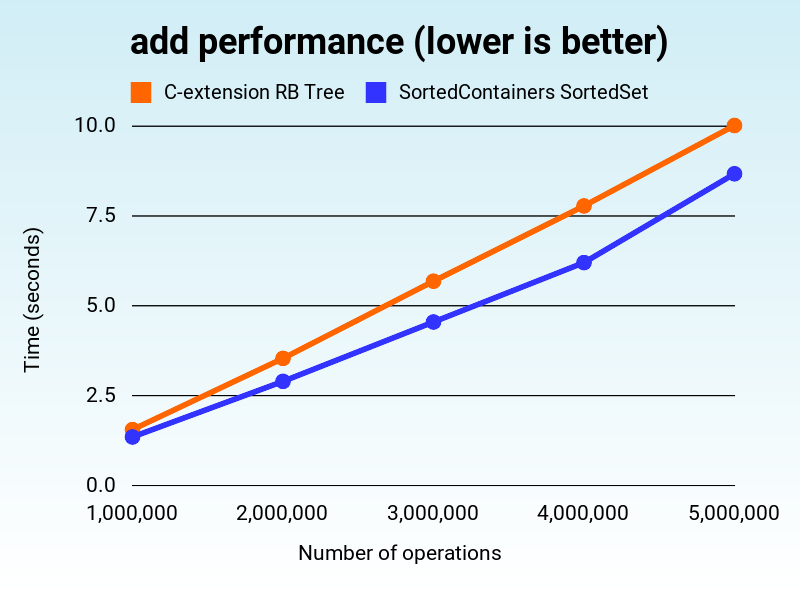
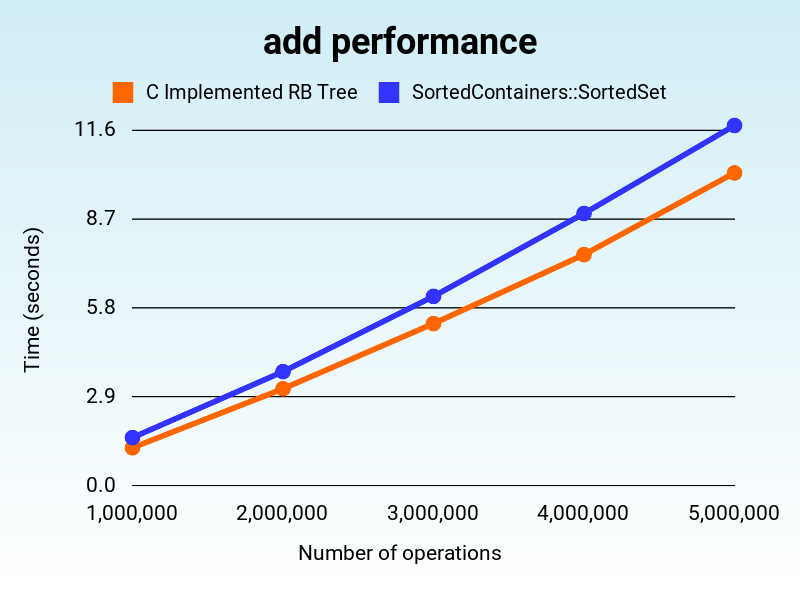
Update benchmarks and README

diff --git a/benchmark/benchmark.rb b/benchmark/benchmark.rb
@@ -6,47 +6,63 @@ require_relative "../lib/sorted_containers/sorted_set"
 require "csv"
 
 sizes = [1_000_000, 2_000_000, 3_000_000, 4_000_000, 5_000_000]
+#sizes = [100_000, 200_000, 300_000, 400_000, 500_000]
+#sizes = [10_000, 20_000, 30_000, 40_000, 50_000]
 results = []
+runs = 5
 
 Benchmark.bm(15) do |bm|
   sizes.each do |n|
-    list = Array.new(n) { rand(0..n) }
+    # The items to be added to the set
+    list_adds = (1..n).to_a.shuffle
     results_for_n = { size: n }
 
     # Benchmarking original SortedSet
     bm.report("SortedSet #{n}:") do
-      sorted_set = SortedSet.new
-      results_for_n[:add_sorted_set] = Benchmark.measure { list.each { |i| sorted_set.add(i) } }.real
-      results_for_n[:include_sorted_set] = Benchmark.measure { list.each { |i| sorted_set.include?(i) } }.real
-      # rubocop:disable Lint/EmptyBlock
-      results_for_n[:loop_sorted_set] = Benchmark.measure { sorted_set.each { |i| } }.real
-      # rubocop:enable Lint/EmptyBlock
-      results_for_n[:delete_sorted_set] = Benchmark.measure { list.shuffle.each { |i| sorted_set.delete(i) } }.real
+      total_time = {add: 0, include: 0, loop: 0, delete: 0}
+      runs.times do
+        sorted_set = SortedSet.new
+        total_time[:add] += Benchmark.measure { list_adds.each { |i| sorted_set.add(i) } }.real
+        total_time[:include] += Benchmark.measure { (1..n).map { rand((-0.5*n).to_i..(n*1.5).to_i) }.each { |i| sorted_set.include?(i) } }.real
+        total_time[:loop] += Benchmark.measure { sorted_set.each { |i| } }.real
+        total_time[:delete] += Benchmark.measure do 
+          list_adds.shuffle.each do |i| 
+            sorted_set.delete(i) 
+          end
+        end.real
+      end
+      results_for_n[:add_sorted_set] = total_time[:add] / runs
+      results_for_n[:include_sorted_set] = total_time[:include] / runs
+      results_for_n[:loop_sorted_set] = total_time[:loop] / runs
+      results_for_n[:delete_sorted_set] = total_time[:delete] / runs
     end
 
     # Benchmarking custom SortedSet
     bm.report("SortedContainers #{n}:") do
-      sorted_set = SortedContainers::SortedSet.new
-      results_for_n[:add_sorted_containers] = Benchmark.measure { list.each { |i| sorted_set.add(i) } }.real
-      results_for_n[:include_sorted_containers] = Benchmark.measure { list.each { |i| sorted_set.include?(i) } }.real
-      # rubocop:disable Lint/EmptyBlock
-      results_for_n[:loop_sorted_containers] = Benchmark.measure { sorted_set.each { |i| } }.real
-      # rubocop:enable Lint/EmptyBlock
-      results_for_n[:delete_sorted_containers] = Benchmark.measure do
-        list.shuffle.each do |i|
-          sorted_set.delete(i)
-        end
-      end.real
+      total_time = {add: 0, include: 0, loop: 0, delete: 0}
+      runs.times do
+        sorted_set = SortedContainers::SortedSet.new
+        total_time[:add] += Benchmark.measure { list_adds.each { |i| sorted_set.add(i) } }.real
+        total_time[:include] += Benchmark.measure { (1..n).map { rand((-0.5*n).to_i..(n*1.5).to_i) }.each { |i| sorted_set.include?(i) } }.real
+        total_time[:loop] += Benchmark.measure { sorted_set.each { |i| } }.real
+        total_time[:delete] += Benchmark.measure do 
+          list_adds.shuffle.each do |i| 
+            sorted_set.delete(i) 
+          end
+        end.real
+      end
+      results_for_n[:add_sorted_containers] = total_time[:add] / runs
+      results_for_n[:include_sorted_containers] = total_time[:include] / runs
+      results_for_n[:loop_sorted_containers] = total_time[:loop] / runs
+      results_for_n[:delete_sorted_containers] = total_time[:delete] / runs
     end
-
     results << results_for_n
   end
 end
 
-# Export results to CSV for visualization
 CSV.open("benchmark_results.csv", "wb") do |csv|
-  csv << results.first.keys # Adds the headers
-  results.each do |data|
-    csv << data.values
+  csv << results.first.keys
+  results.each do |result|
+    csv << result.values
   end
 end

diff --git a/benchmark/benchmark_init_only.rb b/benchmark/benchmark_init_only.rb
@@ -1,0 +1,46 @@
+# frozen_string_literal: true
+
+require "benchmark"
+require "sorted_set"
+require_relative "../lib/sorted_containers/sorted_set"
+require "csv"
+
+sizes = [1_000_000, 2_000_000, 3_000_000, 4_000_000, 5_000_000]
+#sizes = [100_000, 200_000, 300_000, 400_000, 500_000]
+#sizes = [10_000, 20_000, 30_000, 40_000, 50_000]
+results = []
+runs = 5
+
+Benchmark.bm(15) do |bm|
+  sizes.each do |n|
+    # The items to be added to the set
+    list_adds = (1..n).to_a.shuffle
+    results_for_n = { size: n }
+
+    # Benchmarking original SortedSet
+    bm.report("SortedSet #{n}:") do
+      total_time = {init: 0}
+      runs.times do
+        total_time[:init] += Benchmark.measure { SortedSet.new(list_adds) }.real
+      end
+      results_for_n[:init_sorted_set] = total_time[:init] / runs
+    end
+
+    # Benchmarking custom SortedSet
+    bm.report("SortedContainers #{n}:") do
+      total_time = {init: 0}
+      runs.times do
+        total_time[:init] += Benchmark.measure { SortedContainers::SortedSet.new(list_adds) }.real
+      end
+      results_for_n[:init_sorted_containers] = total_time[:init] / runs
+    end
+    results << results_for_n
+  end
+end
+
+CSV.open("benchmark_results_init.csv", "wb") do |csv|
+  csv << results.first.keys
+  results.each do |result|
+    csv << result.values
+  end
+end

diff --git a/benchmark/build_graphs_init_only.rb b/benchmark/build_graphs_init_only.rb
@@ -4,15 +4,12 @@ require "gruff"
 require "csv"
 
 # Read data from CSV
-data = CSV.read("benchmark_results.csv", headers: true, converters: :numeric)
+data = CSV.read("benchmark_results_init.csv", headers: true, converters: :numeric)
 
 # Prepare data arrays
 sizes = data["size"]
 operations = {
-  "add" => %w[add_sorted_set add_sorted_containers],
-  "include" => %w[include_sorted_set include_sorted_containers],
-  "iteration" => %w[loop_sorted_set loop_sorted_containers],
-  "delete" => %w[delete_sorted_set delete_sorted_containers]
+  "initialize" => %w[init_sorted_set init_sorted_containers]
 }
 
 # Method to create and save a graph
@@ -52,6 +49,7 @@ end
 
 # Generate a graph for each operation
 operations.each do |operation, keys|
+  puts "#{operation} #{keys}"
   create_graph(operation, sizes, data[keys[0]], data[keys[1]], labels,
                "#{operation.downcase}_performance_comparison.png")
 end

diff --git a/README.md b/README.md
@@ -1,32 +1,38 @@
 # SortedContainers
 
-SortedContainers is a _fast_ implementation of sorted lists, sets, and dictionaries in pure Ruby. It is based on the [sortedcontainers](https://grantjenks.com/docs/sortedcontainers/) Python library by Grant Jenks.
+SortedContainers is a fast implementation of sorted lists, sets, and dictionaries in pure Ruby. It is based on the [sortedcontainers](https://grantjenks.com/docs/sortedcontainers/) Python library by Grant Jenks.
 
 SortedContainers provides three main classes: `SortedArray`, `SortedSet`, and `SortedHash`. Each class is a drop-in replacement for the corresponding Ruby class, but with the added benefit of maintaining the elements in sorted order.
 
-SortedContainers exploits the fact that modern computers are really good at shifting elements around in memory. We sacrifice theroetical time complexity for practical performance. In practice, SortedContainers is _fast_.
+SortedContainers exploits the fact that modern computers are really good at shifting arrays in memory. We sacrifice theroetical time complexity for practical performance. In practice, SortedContainers is fast.
 
 ## How it works
 
-Computers are really good at shifting arrays around. For that reason, in practice it's often faster to keep an array sorted than to use the usual tree-based data structures.
+Computers are good at shifting arrays. For that reason, it's often faster to keep an array sorted than to use the usual tree-based data structures.
 
-For example, if you have the array `[1, 2, 4, 5]` and you want to insert the element `3`, you can simply shift `4, 5` to the right and insert `3` in the correct position. This is a `O(n)` operation, but it's fast.
+For example, if you have the array `[1, 2, 4, 5]` and want to insert the element `3`, you can shift `4, 5` to the right and insert `3` in the correct position. This is a `O(n)` operation, but in practice it's fast.
 
-But if we have a lot of elements we can do better by breaking up the array into smaller arrays. That way we don't have to shift so many elements whenever we insert. For example, if you have the array `[[1, 2], [4, 5]]` and you want to insert the element `3`, you can simply insert `3` into the first array. 
+But we can do better if we have a lot of elements. We can break up the array into smaller arrays so the shifts don't have to move so many elements. For example, if you have the array `[[1,2,4], [5,6,7]]` and you want to insert the element `3`, you can insert `3` into the first array to get `[[1,2,3,4], [5,6,7]]` and only the element `4` has to be shifted.
 
-This often outperforms the more common tree-based data structures like red-black trees and AVL trees, which have `O(log n)` insertions and deletions. In practice, the `O(n)` insertions and deletions of SortedContainers are faster.
+This often outperforms the more common tree-based data structures like red-black trees with `O(log n)` insertions and deletions. In practice, the `O(n)` insertions and deletions of SortedContainers are faster.
 
-How big these smaller arrays should be is a trade-off. The default is set DEFAULT_LOAD_FACTOR = 1000. There is no perfect value and the ideal value will depend on your use case.
+How big the subarrays are is a trade-off. You can modify how big you want to subarrays by setting the `load_factor`. The default is set to DEFAULT_LOAD_FACTOR = 1000. The subarray is split when its size is `2*load_factor`. There is no perfect value. The ideal value will depend on your use case and may require some experimentation.
 
 ## Benchmarks
  
-Performance comparison against [SortedSet](https://github.com/knu/sorted_set) a C extension red-black tree implementation (lower is better).
+Performance comparison against [SortedSet](https://github.com/knu/sorted_set) a C extension red-black tree implementation. Every test was run 5 times and the average was taken.
 
+You can see that SortedContainers has compariable performance for add and delete, and much better performance for iteration, initialization, and include.
+
+Note: I do not know why initialization is faster for 4 million than 3 million elements. This was consistant across multiple runs.
+
+- MacBook Pro (16-inch, 2019)
 - 2.6 GHz 6-Core Intel Core i7, 16 GB 2667 MHz DDR4
 - Ruby 3.2.2
 - SortedContainers 0.1.0
 - SortedSet 1.0.3
-
+### Results (Lower is better)
+<img src="benchmark/initialize_performance_comparison.png" width="50%">
 <img src="benchmark/add_performance_comparison.png" width="50%">
 <img src="benchmark/delete_performance_comparison.png" width="50%">
 <img src="benchmark/iteration_performance_comparison.png" width="50%">
